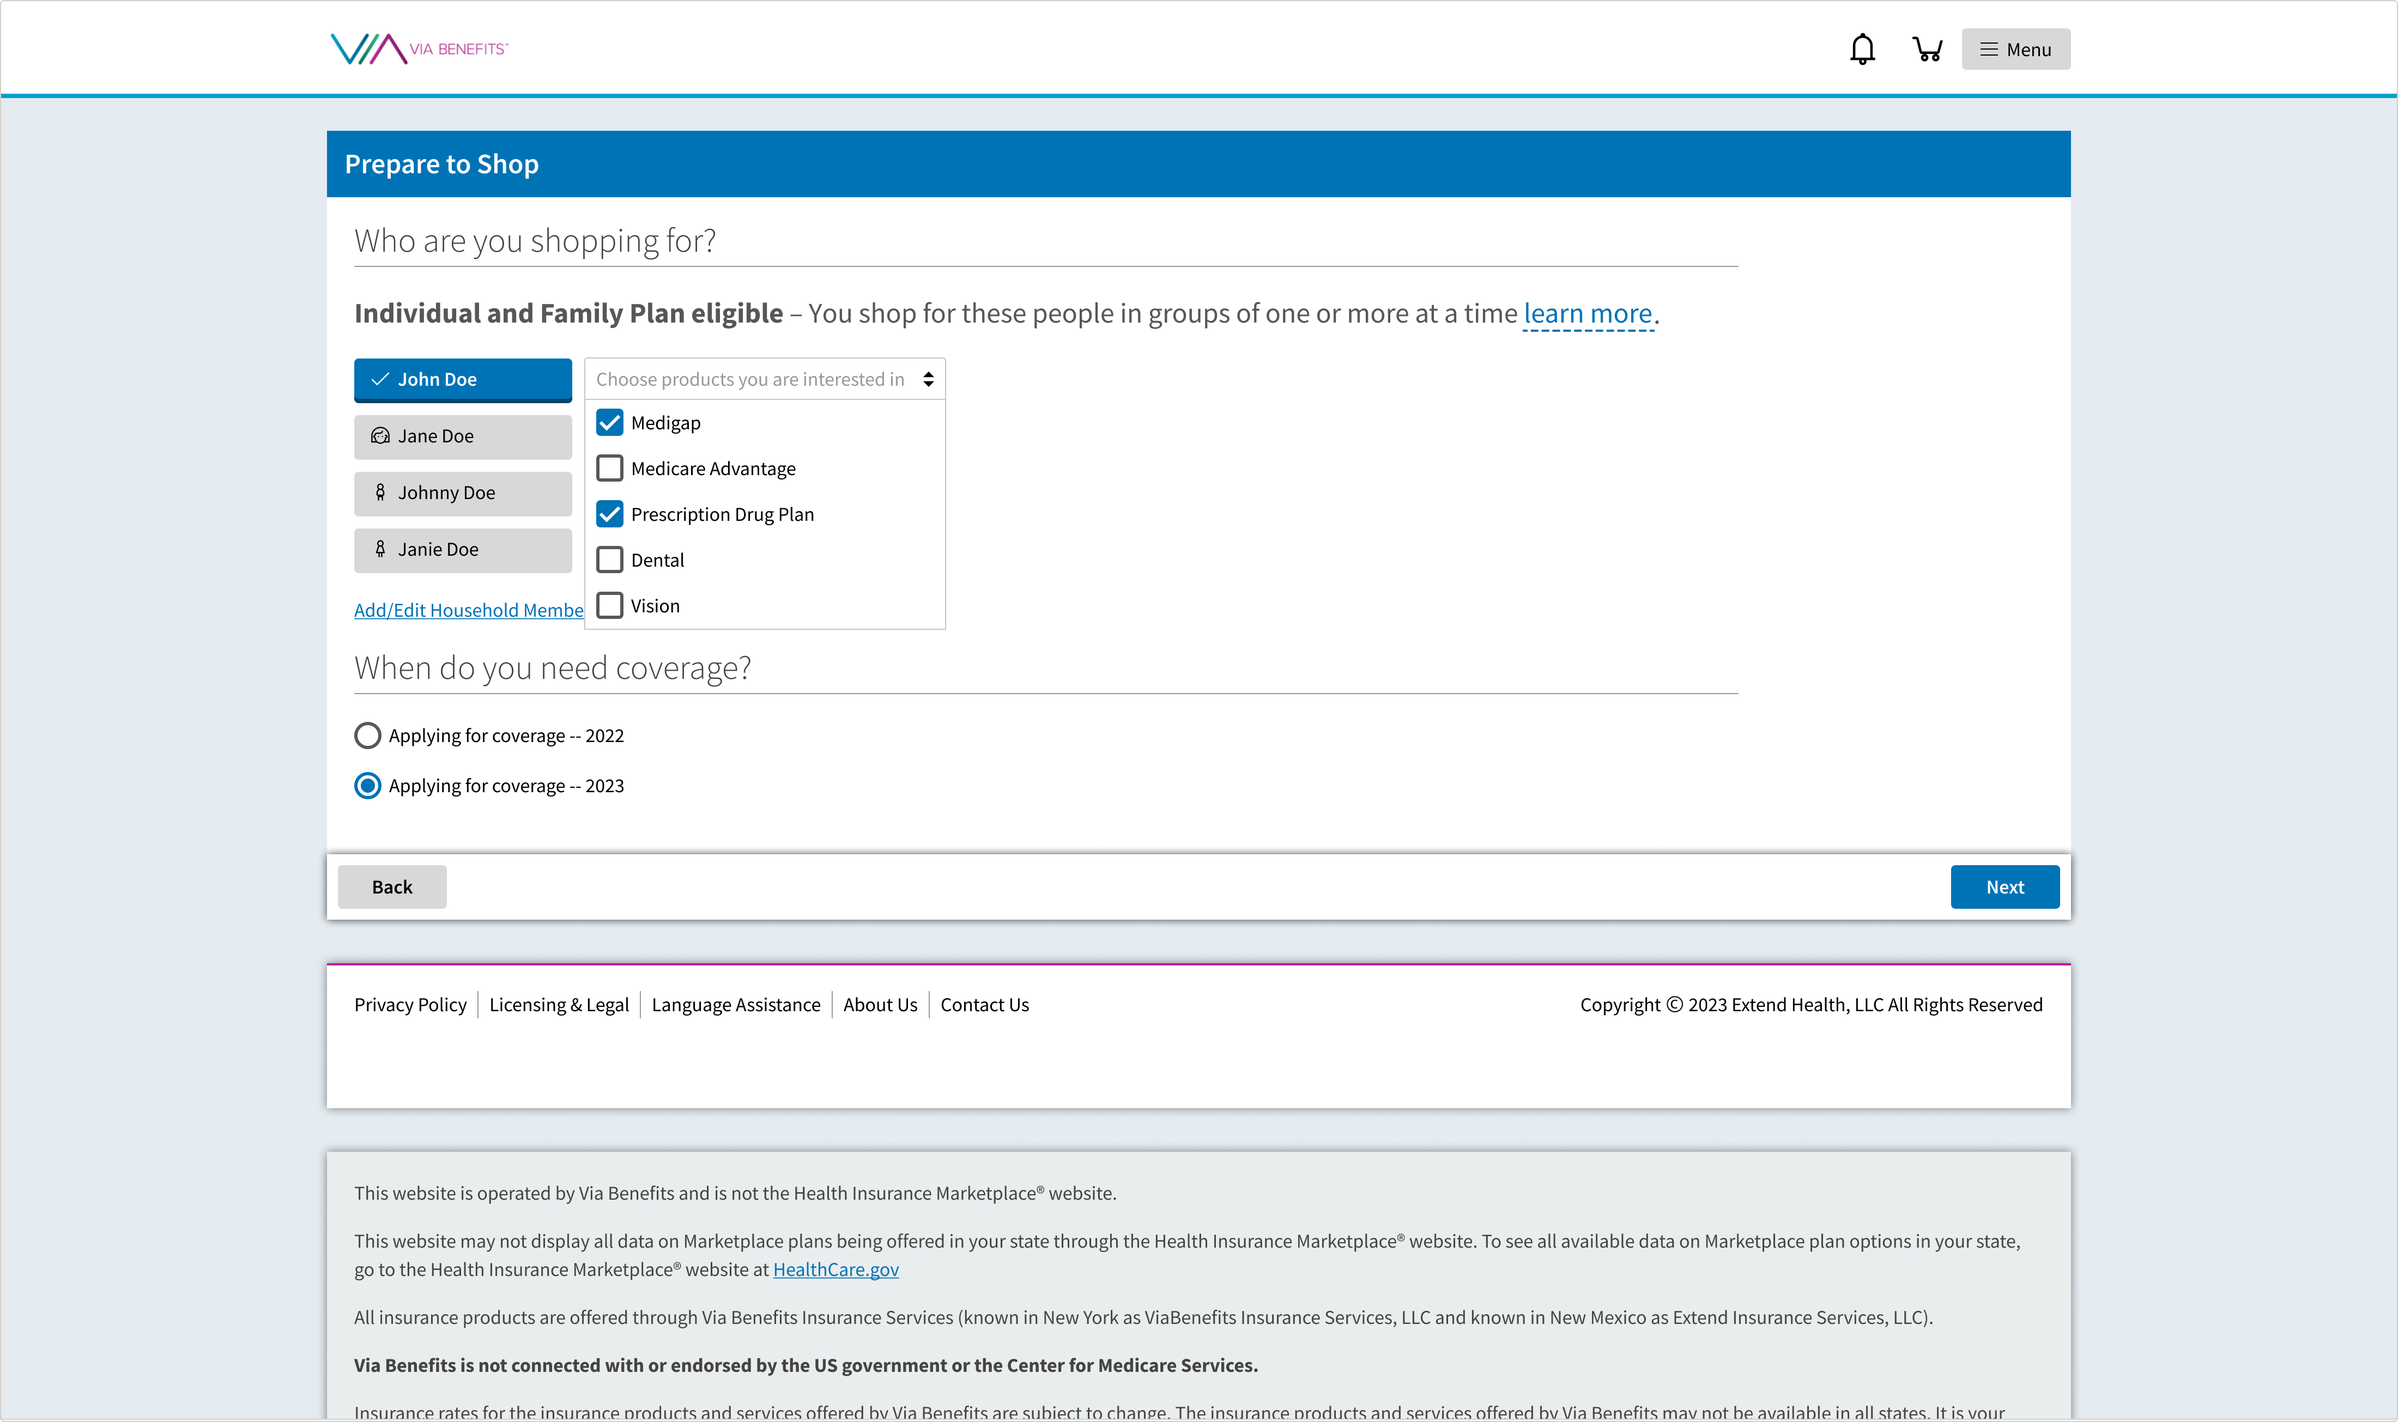
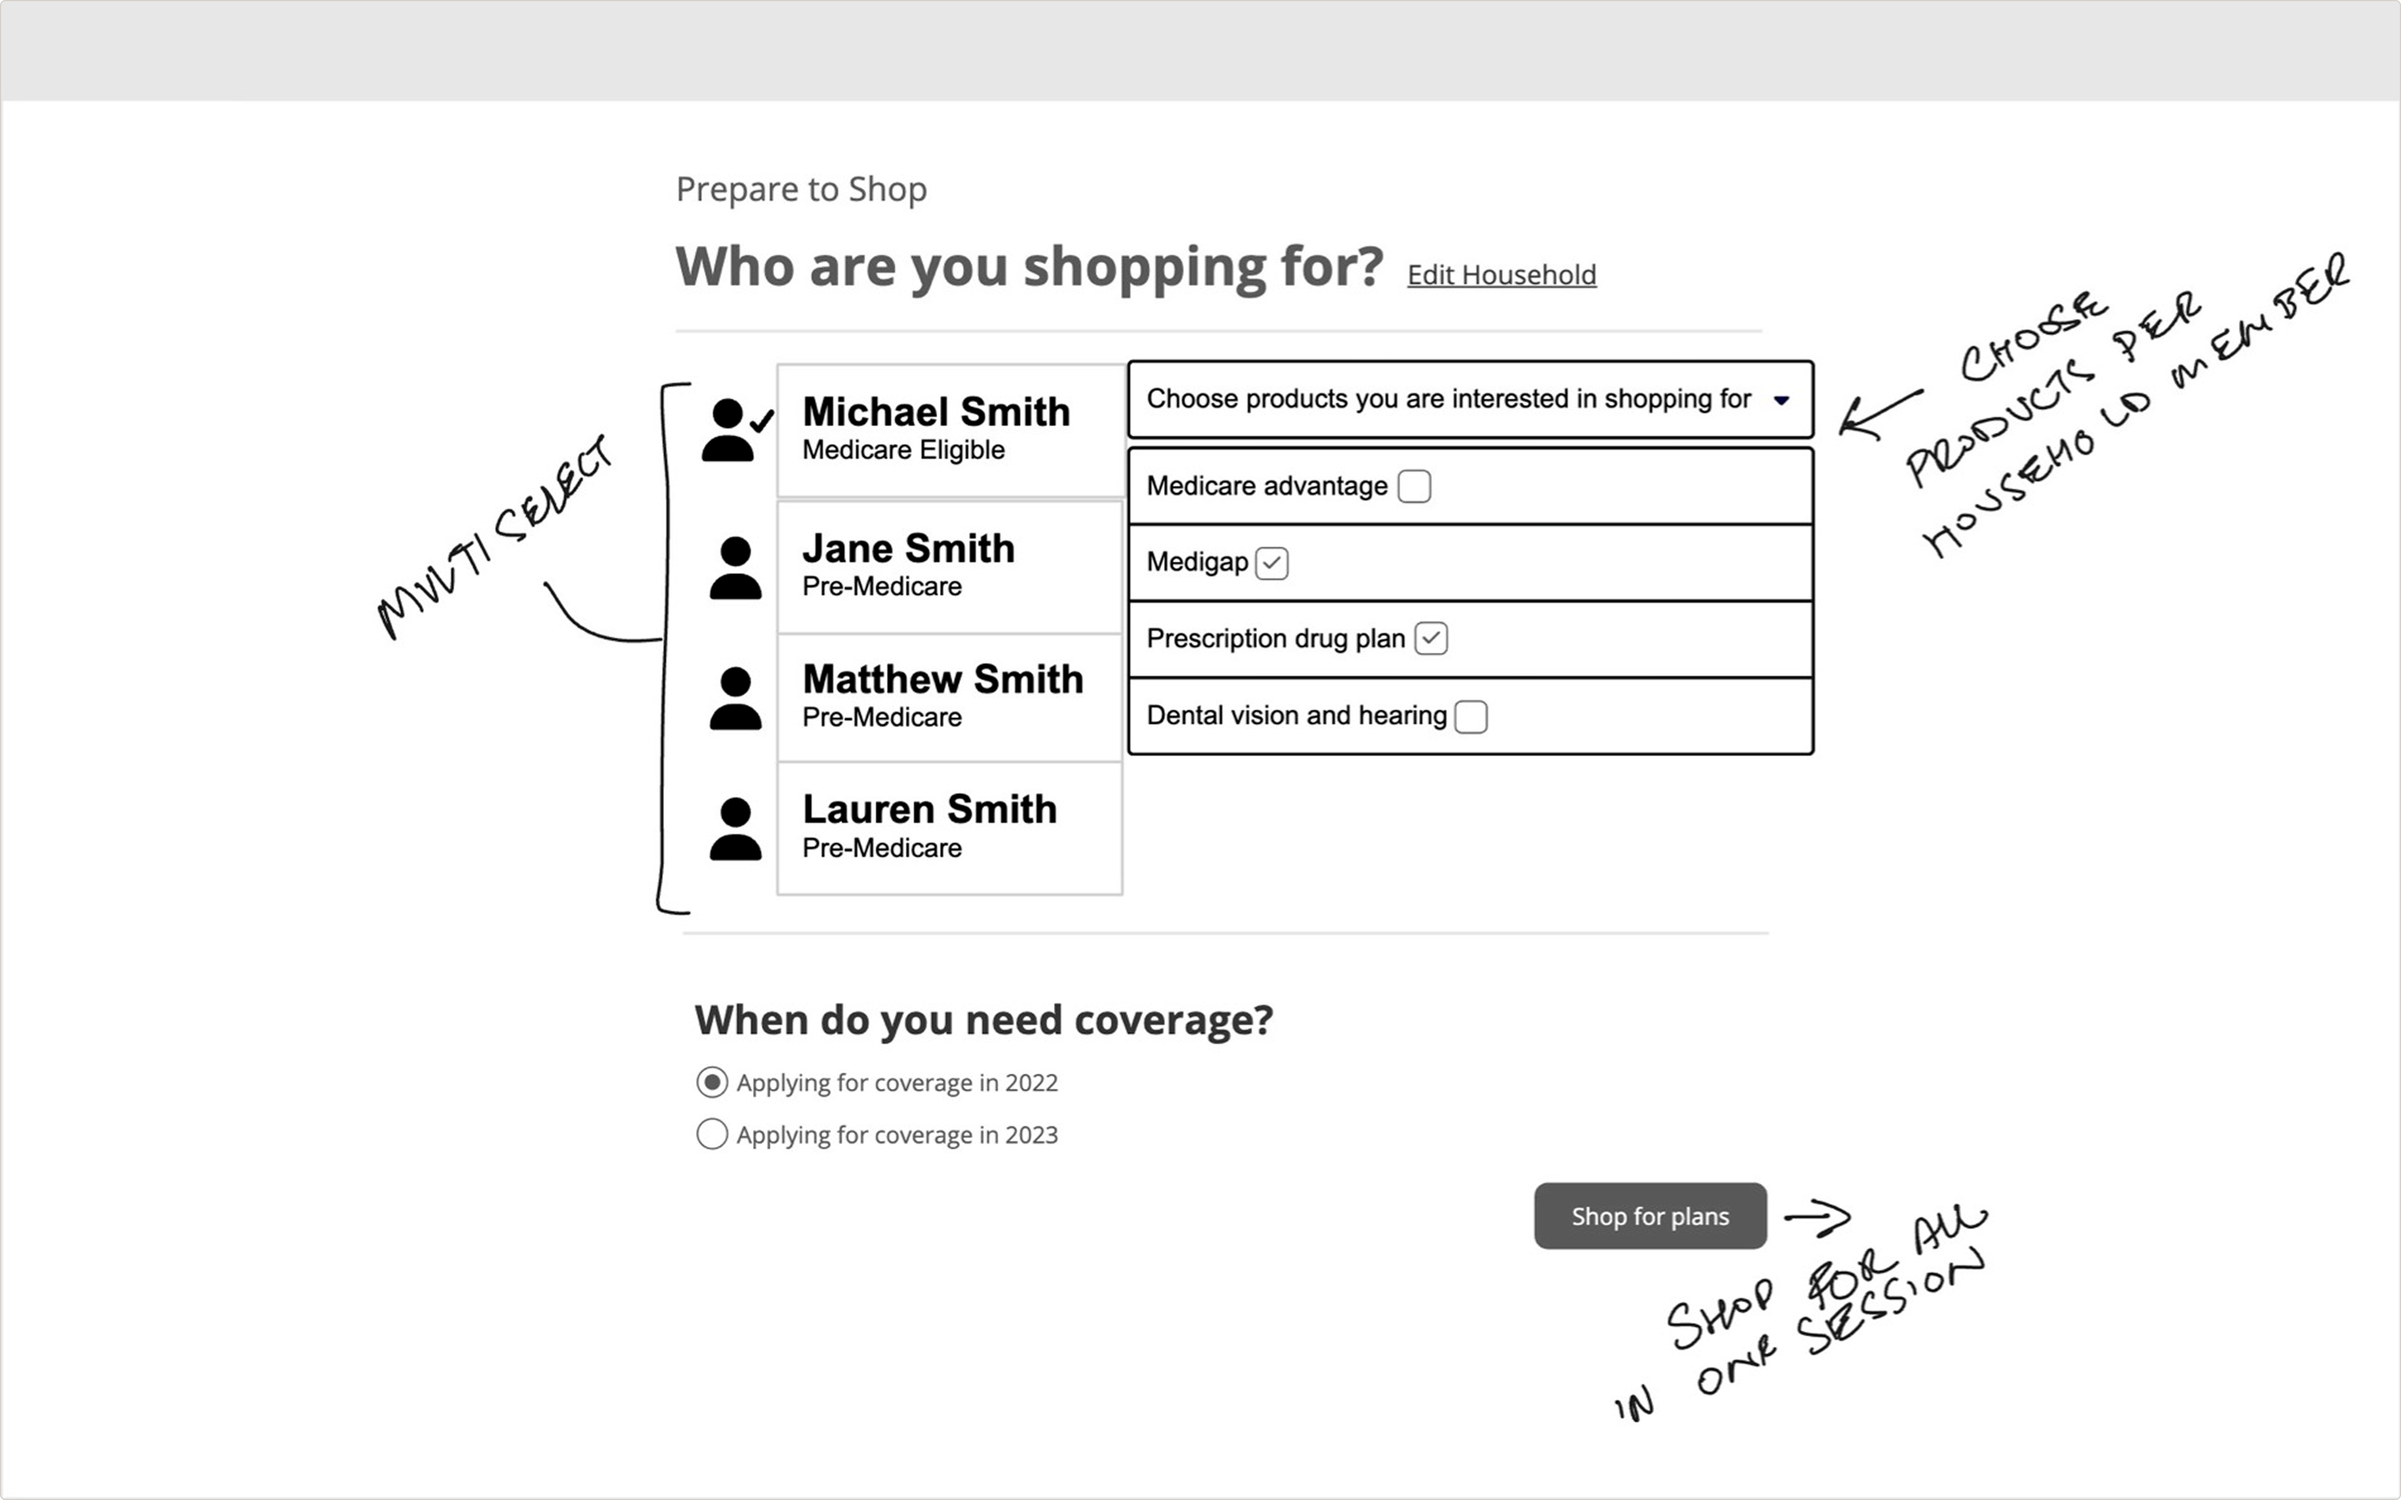
Add legal iteration story and expert gap moment to ai-agent; replace people-first sketches

diff --git a/app/work/ai-agent/page.tsx b/app/work/ai-agent/page.tsx
@@ -301,6 +301,10 @@ function FullCaseStudy() {
           body="Even when categorized correctly, insights sat in a static spreadsheet until the weekly post. A critical bug surfacing on Monday wouldn't reach the right PM until Friday — at the earliest. During AEP, when feedback volume spiked and speed mattered most, the lag was longest."
         />
 
+        <Body>
+          I experienced the expert gap myself. I worked directly on the Shopping and Quoting team, which made me closer to the product than most researchers. But that proximity had limits. If a piece of feedback touched a known technical limitation in another team's domain, I might flag it as a bug when it wasn't one. The member's language didn't tell me which team owned the problem — only product context I didn't have would. The person doing the categorization couldn't know what they didn't know. That's not a failure of effort. It's a structural problem.
+        </Body>
+
         <PullQuote>
           This wasn't just a process inefficiency. It was a compliance and retention risk. The voice of the user was arriving too late to matter.
         </PullQuote>
@@ -331,7 +335,24 @@ function FullCaseStudy() {
         <CalloutCard
           variant="light"
           title="1. Redaction at the source"
-          body="PHI redaction could have happened anywhere in the pipeline. I chose to enforce it at the Qualtrics layer — before data ever left the feedback system — rather than relying on the agent to handle it downstream. If the agent never sees PHI, the risk surface disappears rather than being managed. Legal sign-off happened before the first line of agent logic was written. That sign-off wasn't a checkbox — it was the prerequisite for everything else."
+          body="PHI redaction could have happened anywhere in the pipeline. I chose to enforce it at the Qualtrics layer — before data ever left the feedback system — rather than relying on the agent to handle it downstream. If the agent never sees PHI, the risk surface disappears rather than being managed."
+        />
+        <Body>
+          My first proposal was straightforward: feed the raw feedback directly into the agent. Legal said no. The data contained names, Social Security numbers, Medicare IDs — PHI that couldn't touch a third-party model under any circumstances.
+        </Body>
+        <Body>
+          I didn't push back on the constraint. I designed around it. I researched what Qualtrics could do natively and discovered their redaction logic — structured pattern queries that could strip known identifiers before data ever left the feedback system. I built the policy, tested it, and brought it back to Legal not as a negotiation but as a solution.
+        </Body>
+        <Body>
+          They had one additional requirement: auditability. They needed to demonstrate that redaction had happened, not just trust that it did. I built that into the agent instructions at two levels — reactive PHI audits that could be triggered on demand, and proactive flagging logic that used natural language to surface anything potentially sensitive before it became a problem.
+        </Body>
+        <Body>
+          That sign-off unlocked everything else. Without it, there was no project.
+        </Body>
+        <ProjectImage
+          src="/images/work/ai-agent/redaction-policy.jpg"
+          alt="Qualtrics PII redaction policy configuration showing SSN detection pattern"
+          caption="The redaction policy built in Qualtrics — SSN pattern detection, structured queries for known identifiers. This ran before any feedback reached the agent. Legal reviewed and approved this configuration before the first line of agent logic was written."
         />
         <CalloutCard
           variant="light"
@@ -473,7 +494,7 @@ function FullCaseStudy() {
           This project didn't improve a product. It improved the conditions under which good product decisions could be made. The research team didn't get a faster version of the old process — they got a fundamentally different one. That's not acceleration. That's leverage.
         </Body>
         <Body mb={false}>
-          The skeptic-to-advocate arc — from "this will never be as good as human analysis" to active advocacy — didn't happen because the AI was impressive. It happened because the evidence was undeniable. The AI wasn't the point. The system was.
+          Design isn't always about creating better interfaces. Sometimes the highest-leverage opportunity is redesigning how work gets done — understanding the people inside the organization, not just the customers. The skeptic-to-advocate arc didn't happen because the AI was impressive. It happened because the evidence was undeniable. The AI wasn't the point. The system was.
         </Body>
       </section>
 
